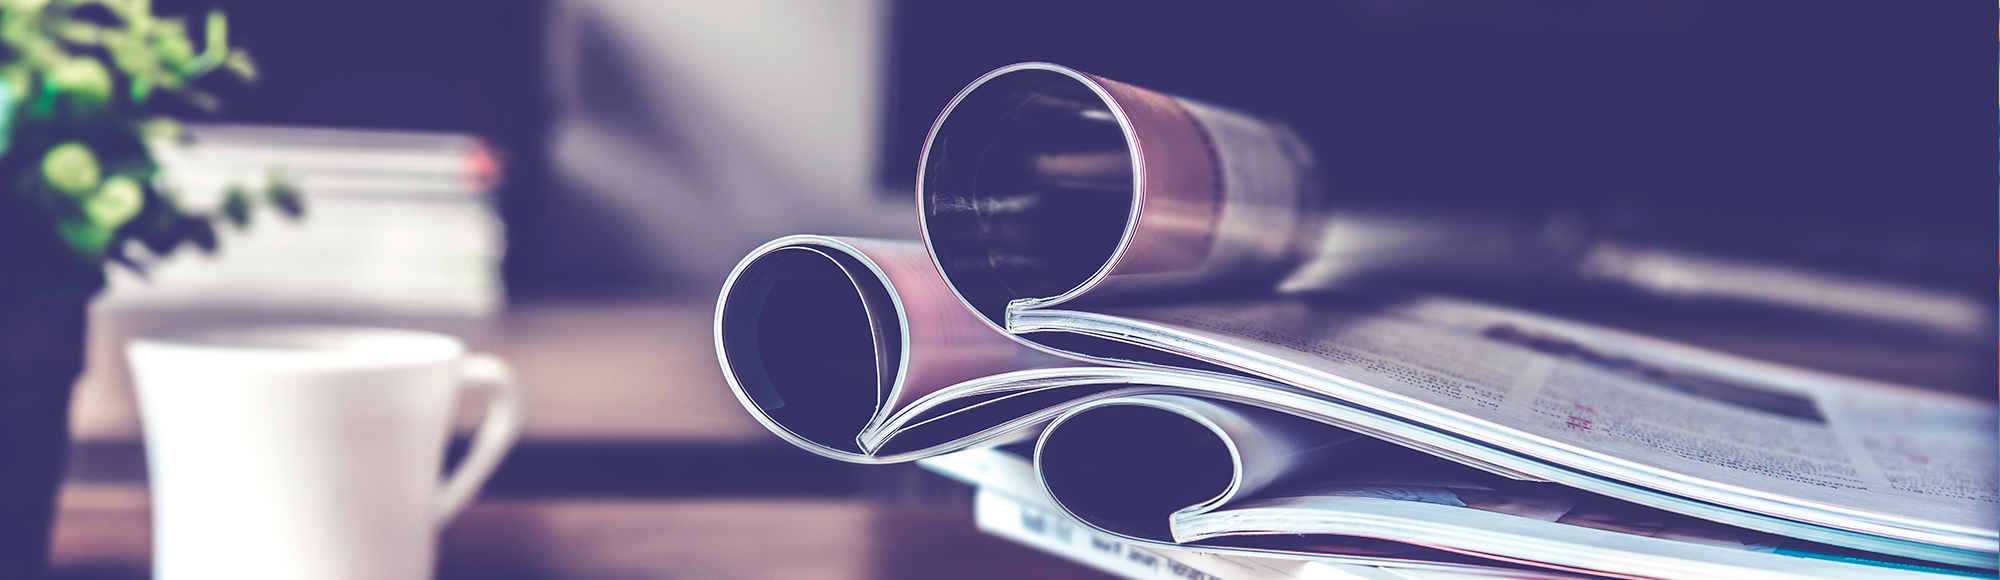
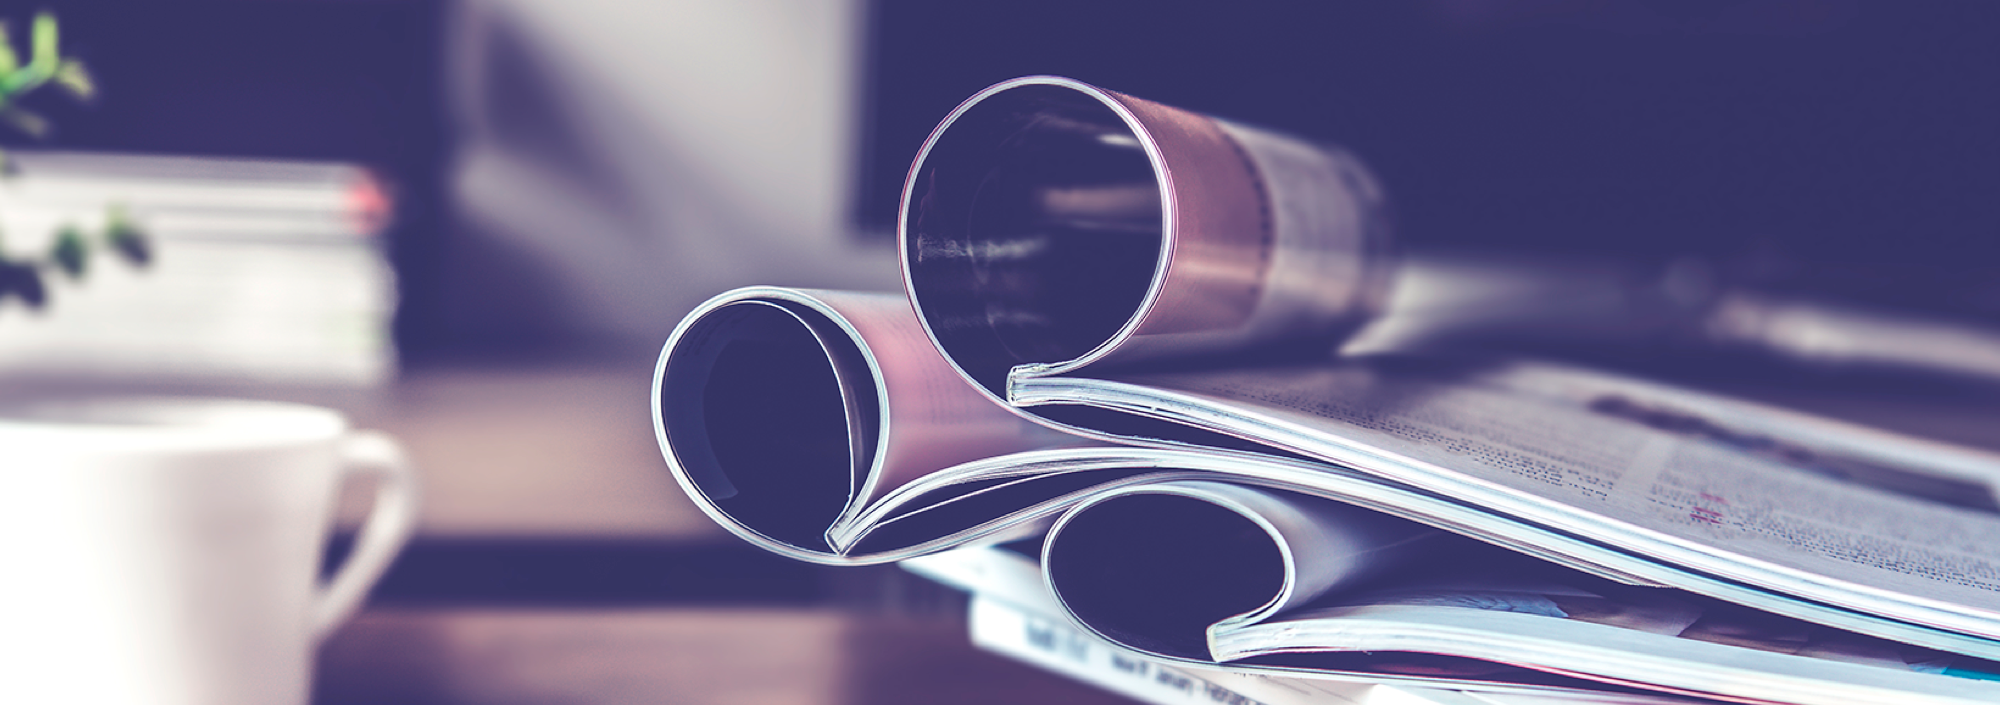
update high quality image

diff --git a/factoria-interior.html b/factoria-interior.html
@@ -18,7 +18,7 @@
     <body>
         <!-- MAIN CONTENT -->
         <div id="main">
-            <div class="header interior" style="background: url('assets/images/fact-interior.png'); background-size: 100%">
+            <div class="header interior" style="background: url('assets/images/Factoriainterior.png'); background-size: 100%">
                 <div class="container">
                     <div class="row">
                         <div class="col-sm-12 col-md-2 brand">

diff --git a/viajes-interior.html b/viajes-interior.html
@@ -18,7 +18,7 @@
     <body>
         <!-- MAIN CONTENT -->
         <div id="main">
-            <div class="header interior" style="background: url('assets/images/section4.png'); background-size: 100%">
+            <div class="header interior" style="background: url('assets/images/viajes_interior.png'); background-size: 100%">
                 <div class="container">
                     <div class="row">
                         <div class="col-sm-12 col-md-2 brand">

diff --git a/conference.html b/conference.html
@@ -18,7 +18,7 @@
     <body>
         <!-- MAIN CONTENT -->
         <div id="main">
-            <div class="header" style="background: url('assets/images/office.png');">
+            <div class="header" style="background: url('assets/images/Conference Office.png');">
                 <div class="container">
                     <div class="row">
                         <div class="col-sm-12 col-md-2 brand">

diff --git a/eventos.html b/eventos.html
@@ -20,7 +20,7 @@
         
         <!-- MAIN CONTENT -->
         <div id="main">
-            <div class="header" style="background: url('assets/images/eventos-bg.png');">
+            <div class="header" style="background: url('assets/images/Eventos.png');">
                <div class="container">
                     <div class="row">
                         <div class="col-sm-12 col-md-2 brand">

diff --git a/actualidad.html b/actualidad.html
@@ -20,7 +20,7 @@
 
         <!-- MAIN CONTENT -->
         <div id="main">
-            <div class="header" style="background: url('assets/images/actualidad-bg.png');">
+            <div class="header" style="background: url('assets/images/actualidad.png');">
                 <div class="container">
                     <div class="row">
                         <div class="col-sm-12 col-md-2 brand">

diff --git a/quienes.html b/quienes.html
@@ -16,7 +16,7 @@
 <body>
 	<!-- MAIN CONTENT -->
 	<div id="main">
-		<div class="header" style="background: url('assets/images/quienes-header.png');">
+		<div class="header" style="background: url('assets/images/quiensomos.png');">
 			<div class="container">
 				<div class="row">
 					<div class="col-sm-12 col-md-2 brand">

diff --git a/assets/css/responsive.css b/assets/css/responsive.css
@@ -603,6 +603,10 @@ Author: Ryan (Lynh) Nguyen
         float: right;
         margin-bottom: 50px;
     }
+    .quienes-temp .page-body .section-image img {
+        height: auto;
+        width: 100%;
+    }
 
 }
 @media screen and (max-width: 639px) {
